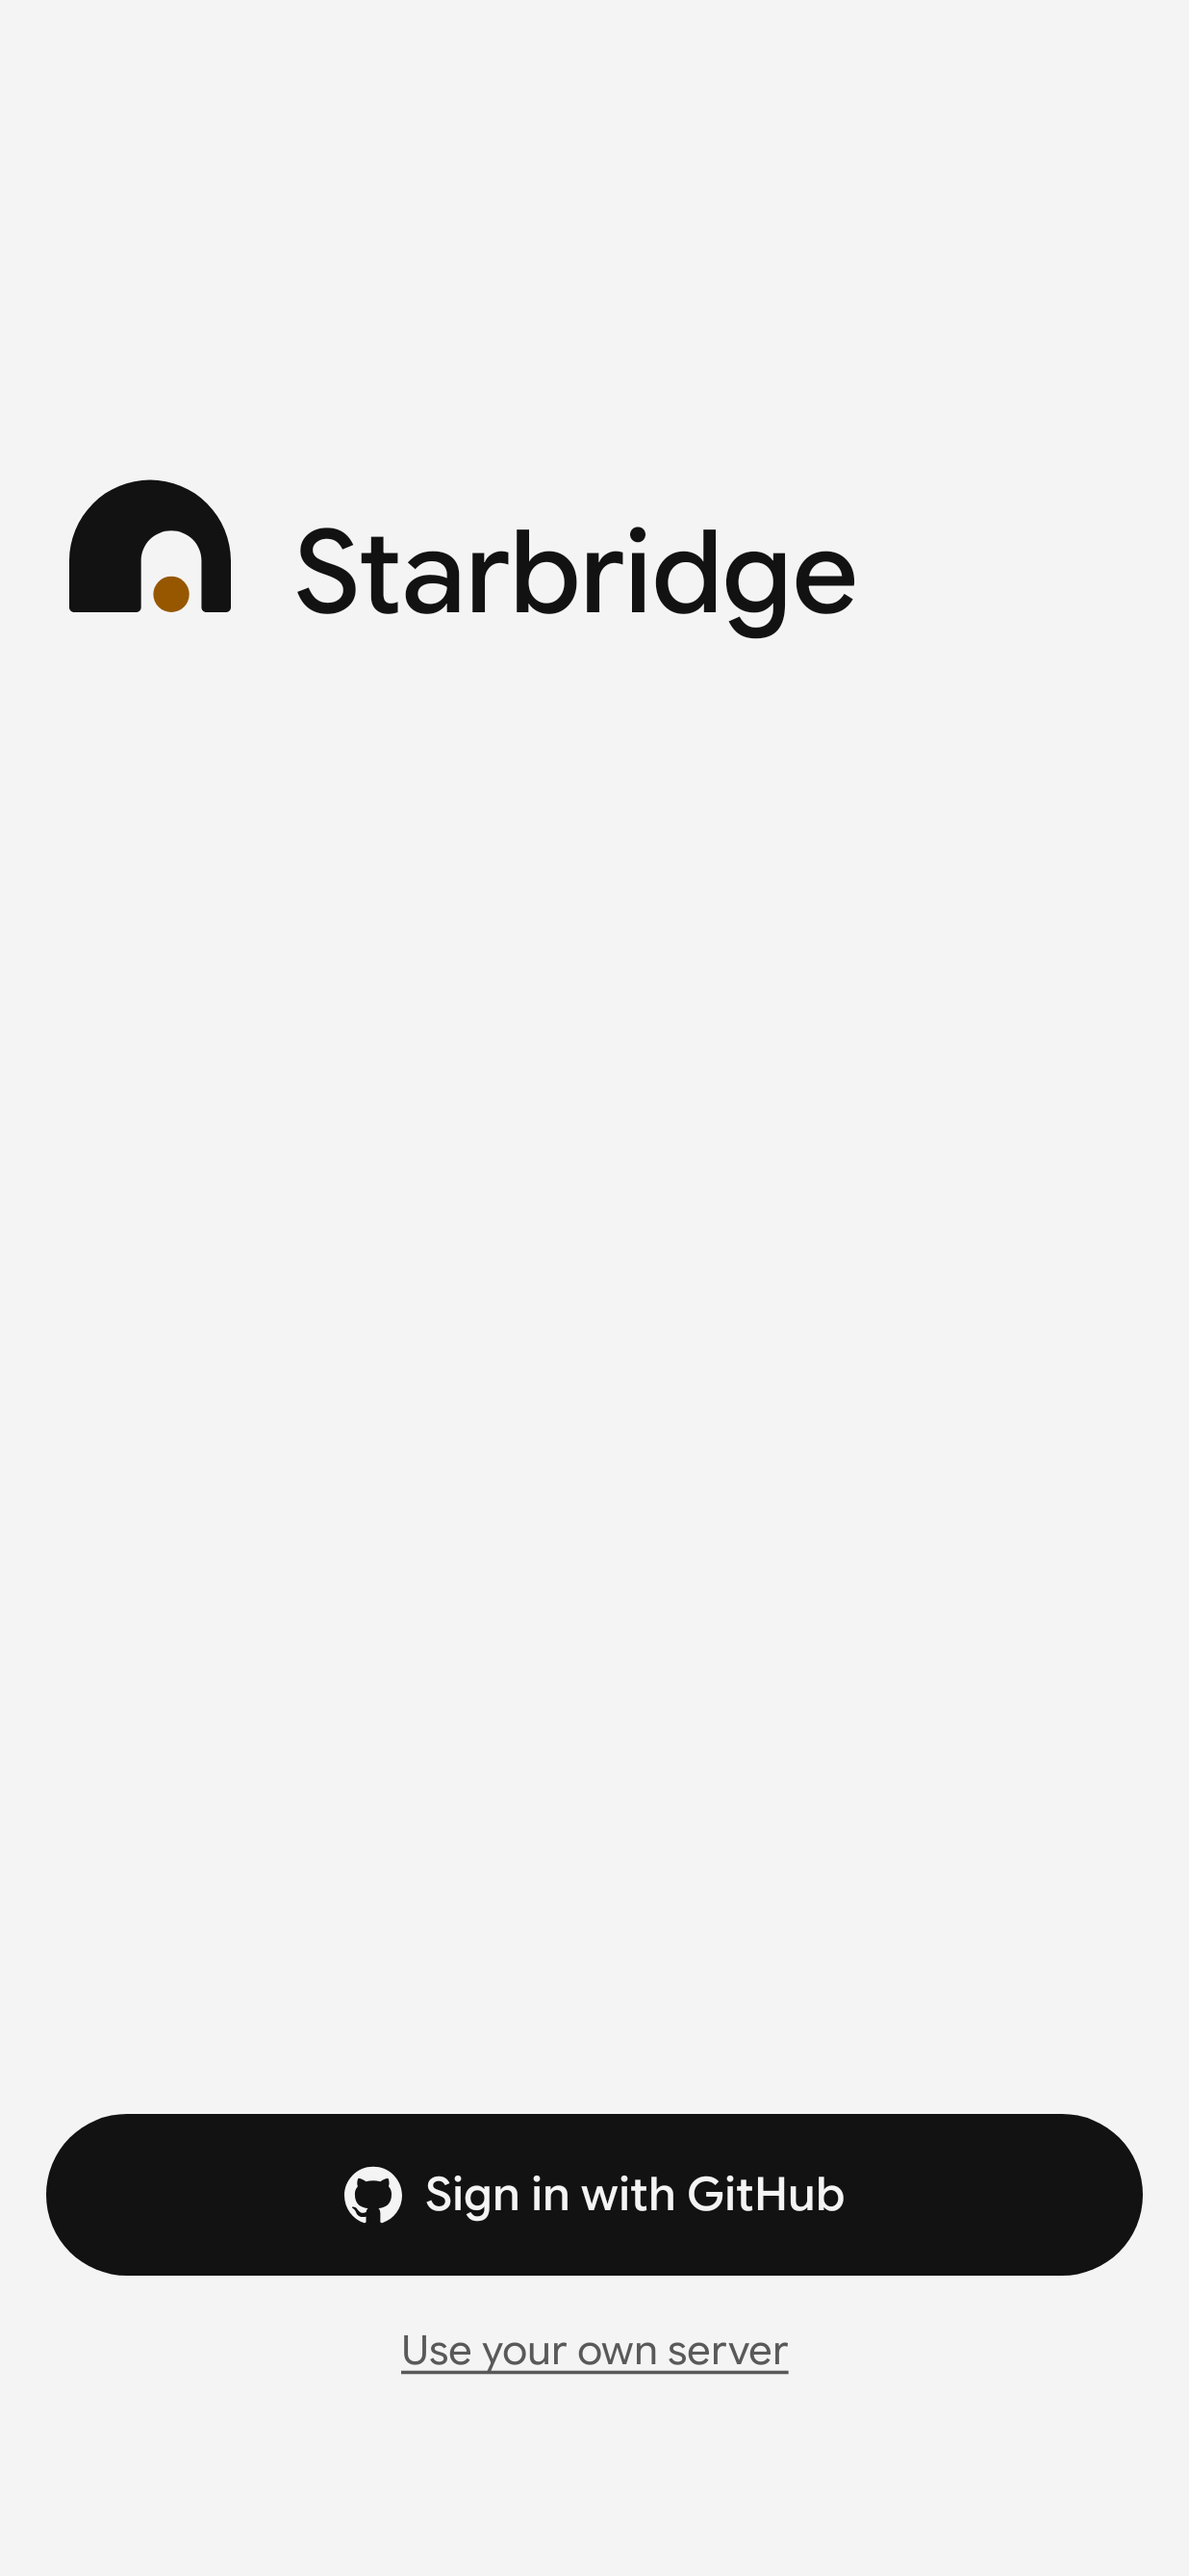
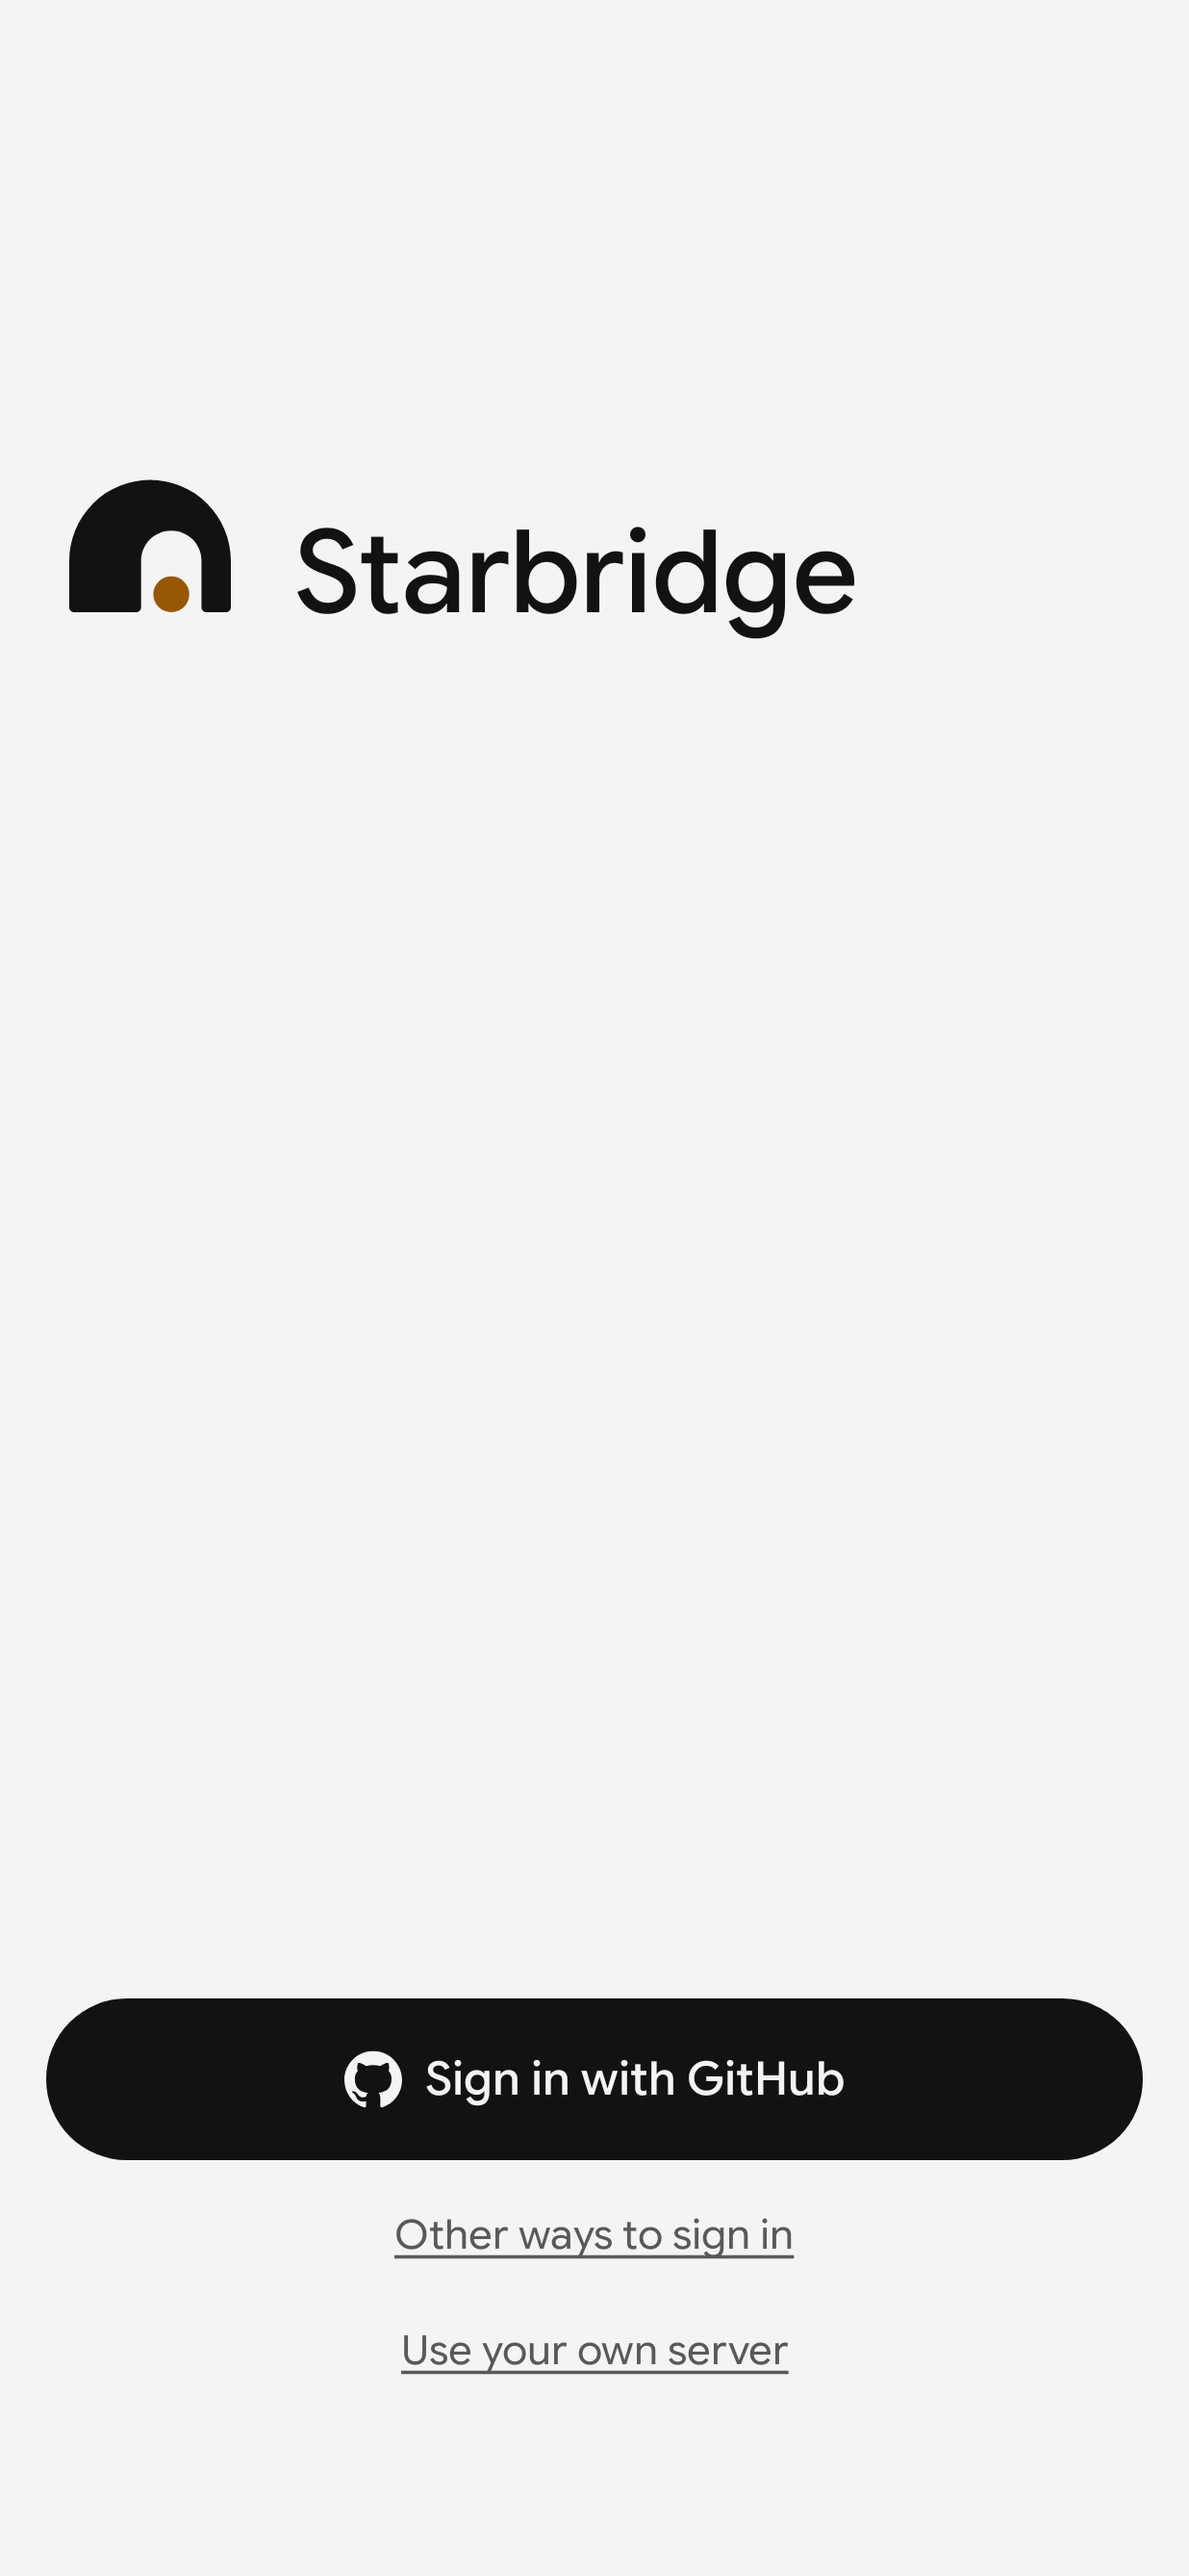
Android: Sign in with Apple behind Other ways to sign in (#1411)

Changed region(s): [[0.0307, 0.7754, 0.9838, 0.8995]]

diff --git a/android/app/src/main/kotlin/dev/starbridge/app/ui/setup/SetupScreen.kt b/android/app/src/main/kotlin/dev/starbridge/app/ui/setup/SetupScreen.kt
@@ -91,6 +91,7 @@ class SetupViewModel @Inject constructor(private val store: Store) : ViewModel()
     val keepsKeys = store.keepsKeys
     val actions = SetupActions(
         gitHub = store::gitHubSignInUrl,
+        apple = store::appleSignInUrl,
         ownerToken = store::signInWithOwnerToken,
         firstDevice = store::setUpFirstDevice,
         join = store::joinAccount,
@@ -108,6 +109,8 @@ class SetupViewModel @Inject constructor(private val store: Store) : ViewModel()
 class SetupActions(
     /** Returns the URL to open in the browser. */
     val gitHub: (server: String) -> String,
+    /** Apple's web sign-in on starbridge.run; the URL to open in the browser. */
+    val apple: () -> String,
     val ownerToken: (server: String, token: String) -> Unit,
     val firstDevice: () -> Unit,
     val join: () -> Unit,
@@ -204,6 +207,7 @@ private fun SignIn(server: String, busy: Boolean, actions: SetupActions, openUrl
     var selfHosted by rememberSaveable { mutableStateOf(server != BuildConfig.DEFAULT_SERVER) }
     var url by rememberSaveable { mutableStateOf(server) }
     var token by rememberSaveable { mutableStateOf("") }
+    var others by rememberSaveable { mutableStateOf(false) }
     Step(
         modifier,
         top = {
@@ -237,6 +241,16 @@ private fun SignIn(server: String, busy: Boolean, actions: SetupActions, openUrl
             if (!selfHosted) {
                 Primary("Sign in with GitHub", busy, icon = { Icon(painterResource(R.drawable.ic_github), contentDescription = null, modifier = Modifier.size(20.dp)) }) {
                     openUrl(actions.gitHub(BuildConfig.DEFAULT_SERVER))
+                }
+                // Apple's sign-in sits behind a link: GitHub is the main way, and an account made
+                // with Apple on the iPhone signs in here too (spec/sign-in.md).
+                if (others) {
+                    OutlinedButton(onClick = { openUrl(actions.apple()) }, enabled = !busy, modifier = Modifier.fillMaxWidth().heightIn(min = 56.dp)) {
+                        Icon(painterResource(R.drawable.ic_apple), contentDescription = null, modifier = Modifier.size(20.dp))
+                        Text("Sign in with Apple", style = StarbridgeTheme.type.action, modifier = Modifier.padding(start = Spacing.s2))
+                    }
+                } else {
+                    Link("Other ways to sign in") { others = true }
                 }
                 Link("Use your own server") { selfHosted = true }
             } else {

diff --git a/android/app/src/test/kotlin/dev/starbridge/app/ScreenshotTest.kt b/android/app/src/test/kotlin/dev/starbridge/app/ScreenshotTest.kt
@@ -100,7 +100,7 @@ class ScreenshotTest(private val dark: Boolean) {
     private val decisionActions = DecisionActions({ _, _, _ -> }, {})
     private val deviceActions = DeviceActions({}, {}, {}, {}, {})
     private val settingsActions = SettingsActions({}, {}, {}, {}, {}, {})
-    private val setupActions = SetupActions({ "" }, { _, _ -> }, {}, {}, {}, {}, {}, {}, {}, {})
+    private val setupActions = SetupActions({ "" }, { "" }, { _, _ -> }, {}, {}, {}, {}, {}, {}, {}, {})
 
     private fun capture(name: String, before: () -> Unit = {}, content: @Composable () -> Unit) {
         compose.setContent {
@@ -387,6 +387,10 @@ class ScreenshotTest(private val dark: Boolean) {
     @Test fun updateRequiredRelease() = capture("update-required-release") { Phone(null, 0) { UpdateRequired("1.2.0", "1.0.3", Installer.Other, update = {}) } }
 
     @Test fun setupSignIn() = capture("setup-sign-in") { Phone(null, 0) { SetupScreen(Phase.SignedOut, "https://starbridge.run", false, setupActions, {}) } }
+
+    @Test fun setupSignInOthers() = capture("setup-sign-in-others", before = { compose.onNodeWithText("Other ways to sign in").performClick() }) {
+        Phone(null, 0) { SetupScreen(Phase.SignedOut, "https://starbridge.run", false, setupActions, {}) }
+    }
 
     @Test fun setupFirstDevice() = capture("setup-first-device") { Phone(null, 0) { SetupScreen(Phase.NoDevice(accountExists = false), "https://starbridge.run", false, setupActions, {}) } }
 

diff --git a/android/app/src/main/kotlin/dev/starbridge/app/data/SignIn.kt b/android/app/src/main/kotlin/dev/starbridge/app/data/SignIn.kt
@@ -6,9 +6,9 @@ import java.security.MessageDigest
 import java.security.SecureRandom
 
 /**
- * GitHub sign-in for the app, with PKCE (RFC 7636, PROTOCOL.md "Auth"). GitHub binds its code to
- * the challenge, so whoever catches the redirect, trading the code for a session needs the
- * verifier, which never leaves this phone.
+ * GitHub or Apple sign-in for the app, with PKCE (RFC 7636, PROTOCOL.md "Auth"). GitHub binds its
+ * code to the challenge, and the server binds Apple's, so whoever catches the redirect, trading the
+ * code for a session needs the verifier, which never leaves this phone.
  */
 object SignIn {
     /** 32 random bytes, base64url without padding: 43 characters. */
@@ -16,7 +16,9 @@ object SignIn {
 
     fun challenge(verifier: String): String = toB64(MessageDigest.getInstance("SHA-256").digest(verifier.toByteArray(Charsets.US_ASCII)))
 
-    fun url(server: String, verifier: String): String = "$server/v1/auth/github?app=1&challenge=${challenge(verifier)}"
+    /** Where the sign-in starts: `github`, or `apple` for Apple's web sign-in (#1411). */
+    fun url(server: String, verifier: String, provider: String = "github"): String =
+        "$server/v1/auth/$provider?app=1&challenge=${challenge(verifier)}"
 
     /** What ends a sign-in. */
     sealed interface Redirect {

diff --git a/android/app/src/test/kotlin/dev/starbridge/app/SignInTest.kt b/android/app/src/test/kotlin/dev/starbridge/app/SignInTest.kt
@@ -14,6 +14,13 @@ class SignInTest {
         assertEquals(Redirect.Code("9f2c", "Xy_z"), SignIn.redirect("https://starbridge.run/v1/auth/github/callback/app?code=9f2c&state=Xy_z"))
         assertEquals(Redirect.Denied("Xy_z"), SignIn.redirect("https://starbridge.run/v1/auth/github/callback/app?error=access_denied&state=Xy_z"))
         assertEquals(Redirect.Denied("Xy_z"), SignIn.redirect("starbridge://auth?error=access_denied&state=Xy_z"))
+        // Apple's codes carry dots (#1411).
+        assertEquals(Redirect.Code("c1f.0.ab.Xy-z", "Xy_z"), SignIn.redirect("https://starbridge.run/app/auth?code=c1f.0.ab.Xy-z&state=Xy_z"))
+    }
+
+    @Test fun startsAppleWhereGitHubStarts() {
+        val challenge = SignIn.challenge("v")
+        assertEquals("https://starbridge.run/v1/auth/apple?app=1&challenge=$challenge", SignIn.url("https://starbridge.run", "v", "apple"))
     }
 
     @Test fun ignoresOtherLinks() {

diff --git a/android/app/src/test/kotlin/dev/starbridge/app/LayoutAuditTest.kt b/android/app/src/test/kotlin/dev/starbridge/app/LayoutAuditTest.kt
@@ -176,7 +176,7 @@ class LayoutAuditTest(private val shot: String, private val look: Look) {
     private val promptActions = PromptActions({ _, _, _, _ -> })
     private val deviceActions = DeviceActions({}, {}, {}, {}, {})
     private val settingsActions = SettingsActions({}, {}, {}, {}, {}, {})
-    private val setupActions = SetupActions({ "" }, { _, _ -> }, {}, {}, {}, {}, {}, {}, {}, {})
+    private val setupActions = SetupActions({ "" }, { "" }, { _, _ -> }, {}, {}, {}, {}, {}, {}, {}, {})
 
     private class Shot(val tab: Tab?, val bar: Boolean = true, val before: () -> Unit = {}, val content: @Composable () -> Unit)
 

diff --git a/android/app/src/test/kotlin/dev/starbridge/app/RecoverDeleteTest.kt b/android/app/src/test/kotlin/dev/starbridge/app/RecoverDeleteTest.kt
@@ -20,7 +20,7 @@ class RecoverDeleteTest {
     @get:Rule val compose = createComposeRule()
 
     @Test fun deleteAccountFromTheRecoveryKeyView() {
-        val actions = SetupActions({ "" }, { _, _ -> }, {}, {}, {}, {}, {}, {}, {}, {})
+        val actions = SetupActions({ "" }, { "" }, { _, _ -> }, {}, {}, {}, {}, {}, {}, {}, {})
         compose.setContent { StarbridgeTheme { SetupScreen(Phase.NoDevice(accountExists = true), "https://starbridge.run", false, actions, {}) } }
         compose.onNodeWithText("Use the recovery key").performClick()
         compose.onNodeWithText("Delete account").performClick()

diff --git a/android/app/src/main/kotlin/dev/starbridge/app/data/ServerStore.kt b/android/app/src/main/kotlin/dev/starbridge/app/data/ServerStore.kt
@@ -435,6 +435,12 @@ class ServerStore(
         return SignIn.url(saved.server, verifier)
     }
 
+    override fun appleSignInUrl(): String {
+        val verifier = SignIn.newVerifier()
+        persist(saved.copy(server = defaultServer), secrets.copy(signInVerifier = verifier))
+        return SignIn.url(saved.server, verifier, "apple")
+    }
+
     /**
      * Only for the sign-in this phone started: without its verifier the code is worthless, and a
      * redirect with no sign-in pending is ignored. The code works once, whatever the outcome.

diff --git a/android/app/src/main/kotlin/dev/starbridge/app/data/Store.kt b/android/app/src/main/kotlin/dev/starbridge/app/data/Store.kt
@@ -53,6 +53,9 @@ interface Store {
 
     /** The URL that starts GitHub sign-in; it ends at a link [SignIn.redirect] reads. */
     fun gitHubSignInUrl(server: String): String
+
+    /** Apple's web sign-in on starbridge.run, the only server holding Apple's keys (#1411). */
+    fun appleSignInUrl(): String
     /** The redirect that ends GitHub sign-in. */
     fun receiveSignIn(redirect: String)
     fun signInWithOwnerToken(server: String, token: String)

diff --git a/spec/parity.md b/spec/parity.md
@@ -47,7 +47,7 @@ Android's and iOS's tests read, so a change to one fails the others until they f
 | Keyboard shortcuts (J K 1-4 A D /) | yes (J, K and / at any width, #1432; 1-4, A, D from 1100 px) | no (only Enter to send, Esc in Find) | yes (as web) | not yet |
 | Sound | yes (off by default, only while a page is open) | yes (system notification channel sound) | yes (macOS default sound; Basso on "Answer not sent"; web Sound row hidden) | not yet |
 | Recover with the recovery key (revokes every other member) | yes | yes | yes (as web) | yes (#1116) |
-| Sign in with Apple (no name or email asked) | yes (#1411: under Other ways to sign in) | not yet (#1411) | yes (as web, in the browser) | yes (#1411: under GitHub's, the same size) |
+| Sign in with Apple (no name or email asked) | yes (#1411: under Other ways to sign in) | yes (#1411: under Other ways to sign in) | yes (as web, in the browser) | yes (#1411: under GitHub's, the same size) |
 | Delete account (Settings and the join screen, its recovery-key view included, typed confirmation) | yes (#1104, #1117) | yes (#1104, #1117, #1166) | yes (as web) | yes (#1141, #1195, #1233: Settings and the join screen, its recovery-key view included) |
 
 Only on desktop: the menu bar light, the Dock or menu bar choice, Open at Login, ⌃⌥S, notifications while no browser runs, and the app's updates (the rail's button and Settings → Updates, #1398).
